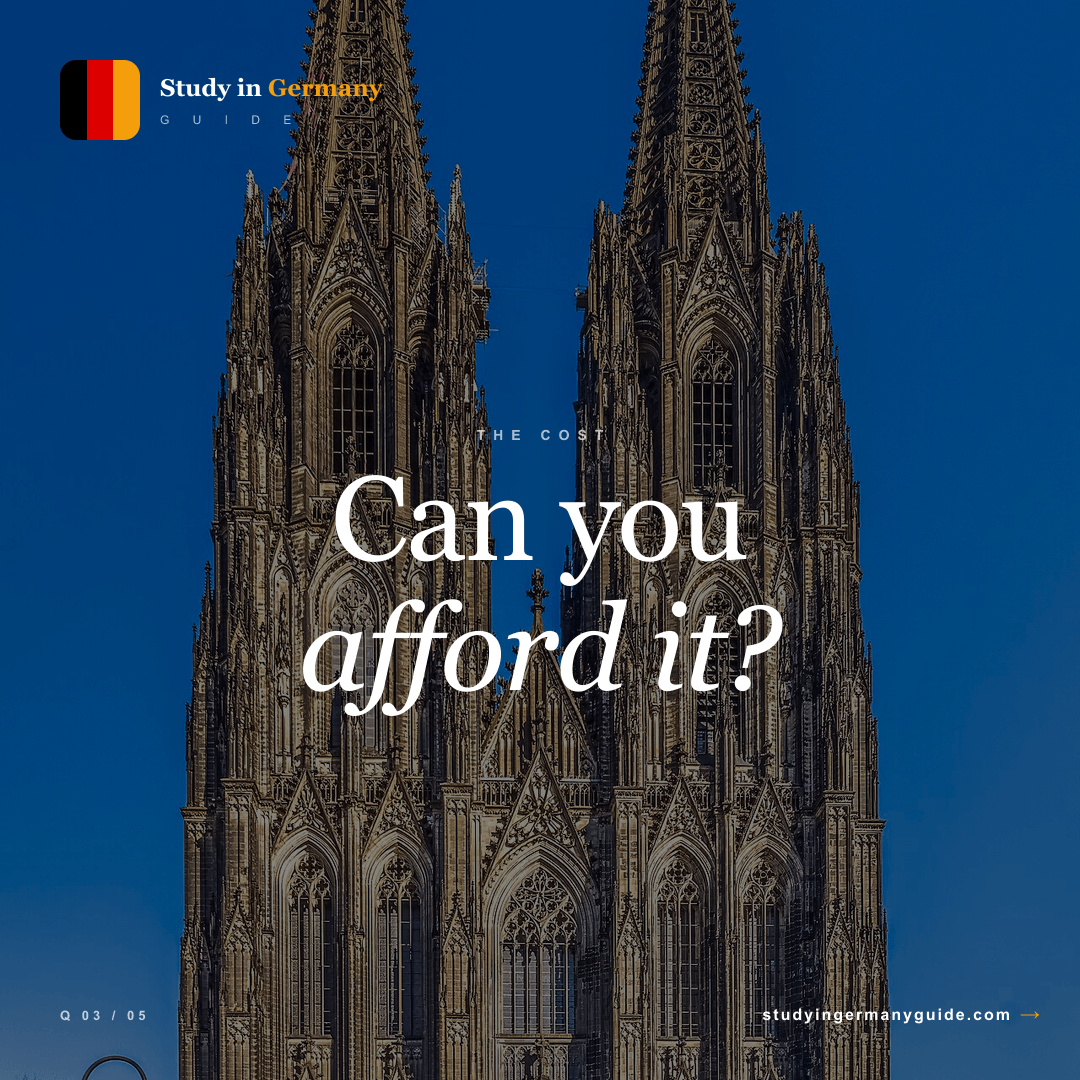
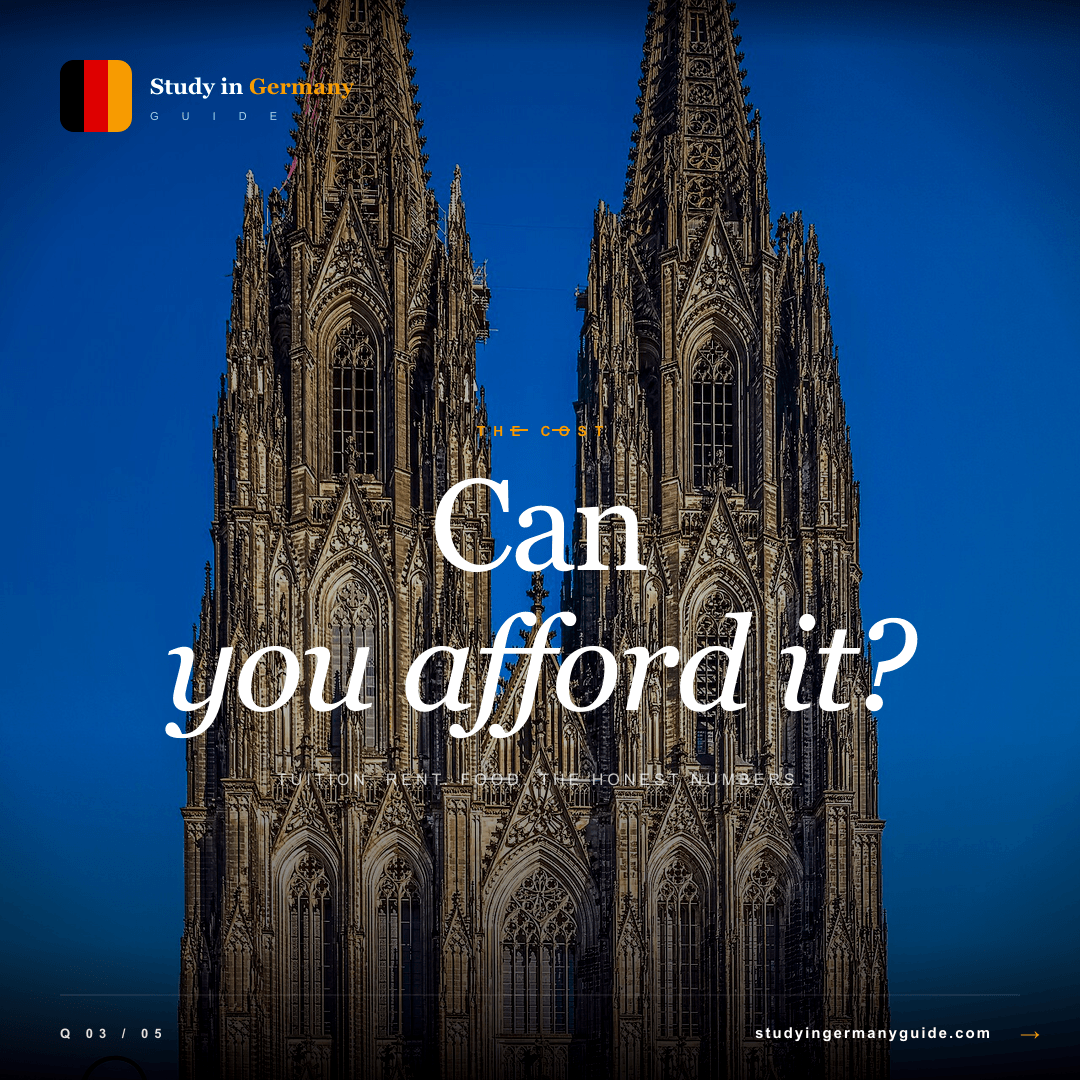
Top-notch editorial series: cinematic grading + vignette + premium serif

diff --git a/scripts/generate-posts.js b/scripts/generate-posts.js
@@ -1,130 +1,175 @@
-// Minimalist editorial Instagram series — centered serif + logo corner + URL bottom
+// TOP-NOTCH Instagram editorial series — premium composition, warm grading, refined typography
 import sharp from "sharp";
 import path from "path";
 
 const OUT = path.resolve("public/insta-posts");
 
 // ━━━━━━━━━━━━━━━━━━━━━━━━━━━━━━━━━━━━━━━━━━━━━
-// Subtle full-image overlay (very gentle darkening for text legibility)
+// Subtle vignette + warm tone overlay for premium feel
 // ━━━━━━━━━━━━━━━━━━━━━━━━━━━━━━━━━━━━━━━━━━━━━
-function softOverlay() {
+function premiumOverlay() {
   return Buffer.from(`<svg xmlns="http://www.w3.org/2000/svg" width="1080" height="1080">
-    <rect width="1080" height="1080" fill="black" opacity="0.42"/>
+    <defs>
+      <!-- Radial vignette — slight darkening at edges for cinematic feel -->
+      <radialGradient id="vignette" cx="50%" cy="50%" r="75%">
+        <stop offset="0%"  stop-color="black" stop-opacity="0"/>
+        <stop offset="70%" stop-color="black" stop-opacity="0.15"/>
+        <stop offset="100%" stop-color="black" stop-opacity="0.55"/>
+      </radialGradient>
+
+      <!-- Top fade for logo area -->
+      <linearGradient id="topFade" x1="0" y1="0" x2="0" y2="1">
+        <stop offset="0%"  stop-color="black" stop-opacity="0.45"/>
+        <stop offset="20%" stop-color="black" stop-opacity="0.10"/>
+        <stop offset="100%" stop-color="black" stop-opacity="0"/>
+      </linearGradient>
+
+      <!-- Bottom fade for URL/series area -->
+      <linearGradient id="bottomFade" x1="0" y1="0" x2="0" y2="1">
+        <stop offset="0%"  stop-color="black" stop-opacity="0"/>
+        <stop offset="60%" stop-color="black" stop-opacity="0.30"/>
+        <stop offset="100%" stop-color="black" stop-opacity="0.85"/>
+      </linearGradient>
+    </defs>
+
+    <!-- Apply layered overlays -->
+    <rect width="1080" height="1080" fill="url(#vignette)"/>
+    <rect width="1080" height="250" fill="url(#topFade)"/>
+    <rect width="1080" height="350" y="730" fill="url(#bottomFade)"/>
+
+    <!-- Centerpiece slight darkening so big serif text reads -->
+    <rect width="1080" height="1080" fill="black" opacity="0.20"/>
   </svg>`);
 }
 
 // ━━━━━━━━━━━━━━━━━━━━━━━━━━━━━━━━━━━━━━━━━━━━━
-// Logo top-left (full logo: flag block + Study in Germany + GUIDE)
-// On dark photo overlay → white text version
+// Logo top-left — small flag + tracked wordmark
 // ━━━━━━━━━━━━━━━━━━━━━━━━━━━━━━━━━━━━━━━━━━━━━
 function logoTopLeft() {
   return Buffer.from(`<svg xmlns="http://www.w3.org/2000/svg" width="1080" height="1080">
     <g transform="translate(60, 60)">
-      <!-- Flag block -->
+      <!-- Flag mark -->
       <defs>
         <clipPath id="rf">
-          <rect x="0" y="0" width="80" height="80" rx="16" ry="16"/>
+          <rect x="0" y="0" width="72" height="72" rx="14" ry="14"/>
         </clipPath>
       </defs>
       <g clip-path="url(#rf)">
-        <rect x="0"  y="0" width="27" height="80" fill="#000000"/>
-        <rect x="27" y="0" width="26" height="80" fill="#DD0000"/>
-        <rect x="53" y="0" width="27" height="80" fill="#F59E0B"/>
+        <rect x="0"  y="0" width="24" height="72" fill="#000000"/>
+        <rect x="24" y="0" width="24" height="72" fill="#DD0000"/>
+        <rect x="48" y="0" width="24" height="72" fill="#F59E0B"/>
       </g>
 
-      <!-- Wordmark stacked vertically -->
-      <text x="100" y="36"
+      <!-- Wordmark -->
+      <text x="90" y="34"
             font-family="Georgia, serif"
-            font-size="24"
+            font-size="22"
             font-weight="700"
             fill="#FFFFFF">Study in <tspan fill="#F59E0B">Germany</tspan></text>
-      <text x="100" y="64"
+      <text x="90" y="60"
             font-family="Arial, sans-serif"
-            font-size="12"
+            font-size="11"
             font-weight="500"
             fill="#FFFFFF"
-            opacity="0.65"
+            opacity="0.7"
             letter-spacing="10">G U I D E</text>
     </g>
   </svg>`);
 }
 
 // ━━━━━━━━━━━━━━━━━━━━━━━━━━━━━━━━━━━━━━━━━━━━━
-// CENTERED big serif text — main statement
+// CENTERED editorial headline — premium Georgia serif
 // ━━━━━━━━━━━━━━━━━━━━━━━━━━━━━━━━━━━━━━━━━━━━━
-function centerHeadline({ line1, line2, eyebrow }) {
+function centerHeadline({ eyebrow, line1, line2, tagline }) {
   return Buffer.from(`<svg xmlns="http://www.w3.org/2000/svg" width="1080" height="1080">
-    <!-- Tiny eyebrow above headline (optional) -->
-    <text x="540" y="440"
-          font-family="Arial, sans-serif"
-          font-size="14"
-          font-weight="600"
-          fill="#FFFFFF"
-          text-anchor="middle"
-          opacity="0.7"
-          letter-spacing="8">${eyebrow}</text>
+    <!-- Eyebrow with refined accent -->
+    <g transform="translate(540, 430)">
+      <line x1="-30" y1="0" x2="-12" y2="0" stroke="#F59E0B" stroke-width="2"/>
+      <text x="0" y="6"
+            font-family="Arial, sans-serif"
+            font-size="14"
+            font-weight="600"
+            fill="#F59E0B"
+            text-anchor="middle"
+            letter-spacing="8">${eyebrow}</text>
+      <line x1="12" y1="0" x2="30" y2="0" stroke="#F59E0B" stroke-width="2"/>
+    </g>
 
-    <!-- Big elegant serif headline, centered -->
-    <text x="540" y="560"
+    <!-- Big elegant serif headline -->
+    <text x="540" y="570"
           font-family="Georgia, serif"
-          font-size="120"
+          font-size="130"
           font-weight="400"
           fill="#FFFFFF"
           text-anchor="middle"
-          letter-spacing="-2">${line1}</text>
+          letter-spacing="-3">${line1}</text>
 
-    <text x="540" y="690"
+    <text x="540" y="710"
           font-family="Georgia, serif"
-          font-size="120"
+          font-size="130"
           font-weight="400"
           fill="#FFFFFF"
           text-anchor="middle"
           font-style="italic"
-          letter-spacing="-2">${line2}</text>
+          letter-spacing="-3">${line2}</text>
+
+    <!-- Tagline under headline (small caps tracked) -->
+    <text x="540" y="785"
+          font-family="Arial, sans-serif"
+          font-size="16"
+          font-weight="500"
+          fill="#FFFFFF"
+          text-anchor="middle"
+          opacity="0.75"
+          letter-spacing="4">${tagline}</text>
   </svg>`);
 }
 
 // ━━━━━━━━━━━━━━━━━━━━━━━━━━━━━━━━━━━━━━━━━━━━━
-// Bottom: URL on right side + arrow
+// Bottom-left series + bottom-right URL
 // ━━━━━━━━━━━━━━━━━━━━━━━━━━━━━━━━━━━━━━━━━━━━━
-function bottomUrl({ series }) {
+function bottomBar({ series }) {
   return Buffer.from(`<svg xmlns="http://www.w3.org/2000/svg" width="1080" height="1080">
-    <!-- Bottom-left: series tag -->
-    <text x="60" y="1020"
+    <!-- Hairline divider -->
+    <line x1="60" y1="995" x2="1020" y2="995" stroke="#FFFFFF" stroke-width="0.5" opacity="0.3"/>
+
+    <!-- Bottom-left: series -->
+    <text x="60" y="1038"
           font-family="Arial, sans-serif"
           font-size="13"
           font-weight="600"
           fill="#FFFFFF"
-          opacity="0.7"
-          letter-spacing="4">${series}</text>
+          opacity="0.85"
+          letter-spacing="6">${series}</text>
 
     <!-- Bottom-right: URL + arrow -->
-    <text x="1010" y="1020"
+    <text x="990" y="1038"
           font-family="Arial, sans-serif"
-          font-size="16"
+          font-size="15"
           font-weight="600"
           fill="#FFFFFF"
           text-anchor="end"
           letter-spacing="2">studyingermanyguide.com</text>
 
-    <text x="1020" y="1020"
+    <text x="1020" y="1040"
           font-family="Arial, sans-serif"
           font-size="20"
           font-weight="700"
-          fill="#F59E0B"
-          text-anchor="start">  →</text>
+          fill="#F59E0B">→</text>
   </svg>`);
 }
 
-async function makePost({ photo, output, eyebrow, line1, line2, series }) {
+async function makePost({ photo, output, eyebrow, line1, line2, tagline, series }) {
   await sharp(`public/cities/${photo}`)
     .resize(1080, 1080, { fit: "cover", position: "center" })
-    .modulate({ saturation: 1.05, brightness: 0.92 })
+    // Premium color grade — slight warm + saturation + contrast
+    .modulate({ saturation: 1.15, brightness: 0.96 })
+    .linear(1.05, -10) // contrast bump
     .composite([
-      { input: softOverlay(), blend: "over" },
+      { input: premiumOverlay(), blend: "over" },
       { input: logoTopLeft(), blend: "over" },
-      { input: centerHeadline({ eyebrow, line1, line2 }), blend: "over" },
-      { input: bottomUrl({ series }), blend: "over" },
+      { input: centerHeadline({ eyebrow, line1, line2, tagline }), blend: "over" },
+      { input: bottomBar({ series }), blend: "over" },
     ])
     .png({ quality: 100 })
     .toFile(`${OUT}/${output}`);
@@ -133,33 +178,36 @@ async function makePost({ photo, output, eyebrow, line1, line2, series }) {
 }
 
 async function run() {
-  // Post 1 — Welcome
+  // Post 1 — Welcome / Brand intro
   await makePost({
-    photo: "berlin.jpg",
+    photo: "heidelberg.jpg",
     output: "post-1.png",
     eyebrow: "WELCOME",
-    line1: "Study in",
-    line2: "Germany.",
+    line1: "Begin",
+    line2: "the journey.",
+    tagline: "A FREE GUIDE FOR FUTURE GERMAN STUDENTS",
     series: "INTRO",
   });
 
   // Post 2 — Why Germany?
   await makePost({
-    photo: "heidelberg.jpg",
+    photo: "munich.jpg",
     output: "post-2.png",
     eyebrow: "THE WHY",
     line1: "Why",
     line2: "Germany?",
+    tagline: "WORLD-CLASS EDUCATION. TUITION-FREE.",
     series: "Q 01 / 05",
   });
 
-  // Post 3 — Which country?
+  // Post 3 — Where to start? (country)
   await makePost({
-    photo: "munich.jpg",
+    photo: "frankfurt.jpg",
     output: "post-3.png",
     eyebrow: "THE WHO",
-    line1: "Where",
-    line2: "are you from?",
+    line1: "Where do",
+    line2: "you start?",
+    tagline: "COUNTRY-SPECIFIC GUIDES — APS, EMBASSY, DOCS",
     series: "Q 02 / 05",
   });
 
@@ -168,32 +216,35 @@ async function run() {
     photo: "cologne.jpg",
     output: "post-4.png",
     eyebrow: "THE COST",
-    line1: "Can you",
-    line2: "afford it?",
+    line1: "Can",
+    line2: "you afford it?",
+    tagline: "TUITION. RENT. FOOD. THE HONEST NUMBERS.",
     series: "Q 03 / 05",
   });
 
   // Post 5 — Visa
   await makePost({
-    photo: "frankfurt.jpg",
+    photo: "hamburg.jpg",
     output: "post-5.png",
     eyebrow: "THE VISA",
     line1: "How long",
     line2: "is the visa?",
+    tagline: "REAL TIMELINES — NO MYTHS, JUST FACTS",
     series: "Q 04 / 05",
   });
 
   // Post 6 — Universities
   await makePost({
-    photo: "hamburg.jpg",
+    photo: "dresden.jpg",
     output: "post-6.png",
-    eyebrow: "THE UNIVERSITIES",
+    eyebrow: "THE UNIVERSITY",
     line1: "Which",
-    line2: "university?",
+    line2: "one for you?",
+    tagline: "FROM TUM TO HEIDELBERG — EXPLORE EVERY OPTION",
     series: "Q 05 / 05",
   });
 
-  console.log("\n6 minimal editorial posts ready.");
+  console.log("\n6 top-notch editorial posts ready.");
 }
 
 run().catch(console.error);
